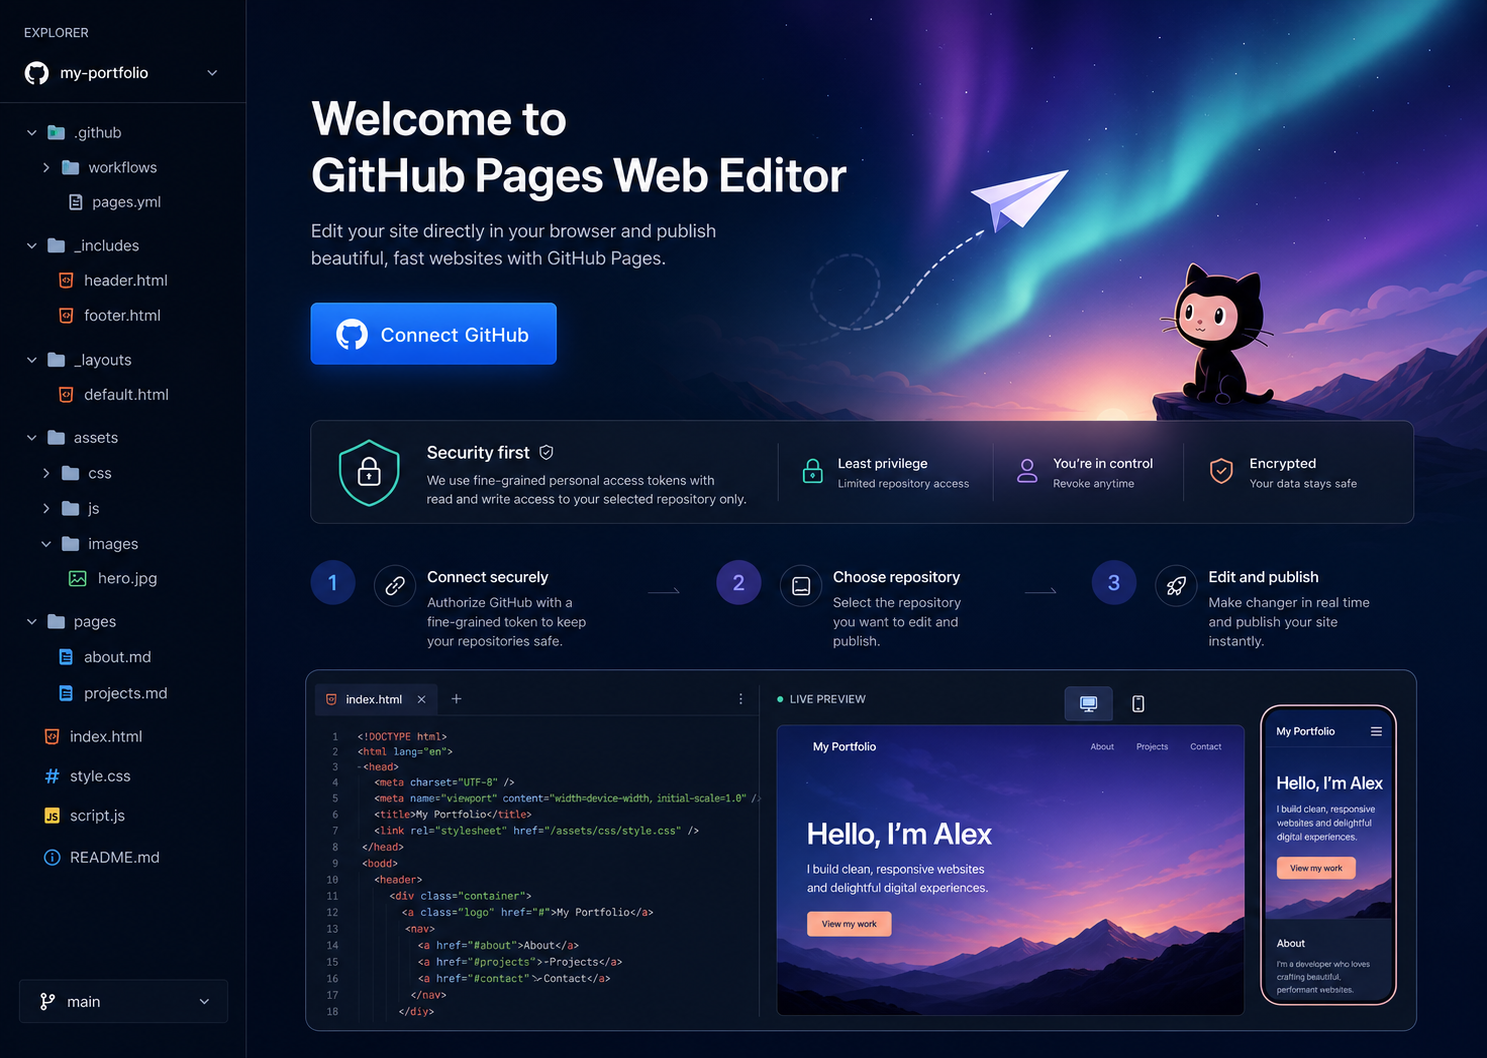
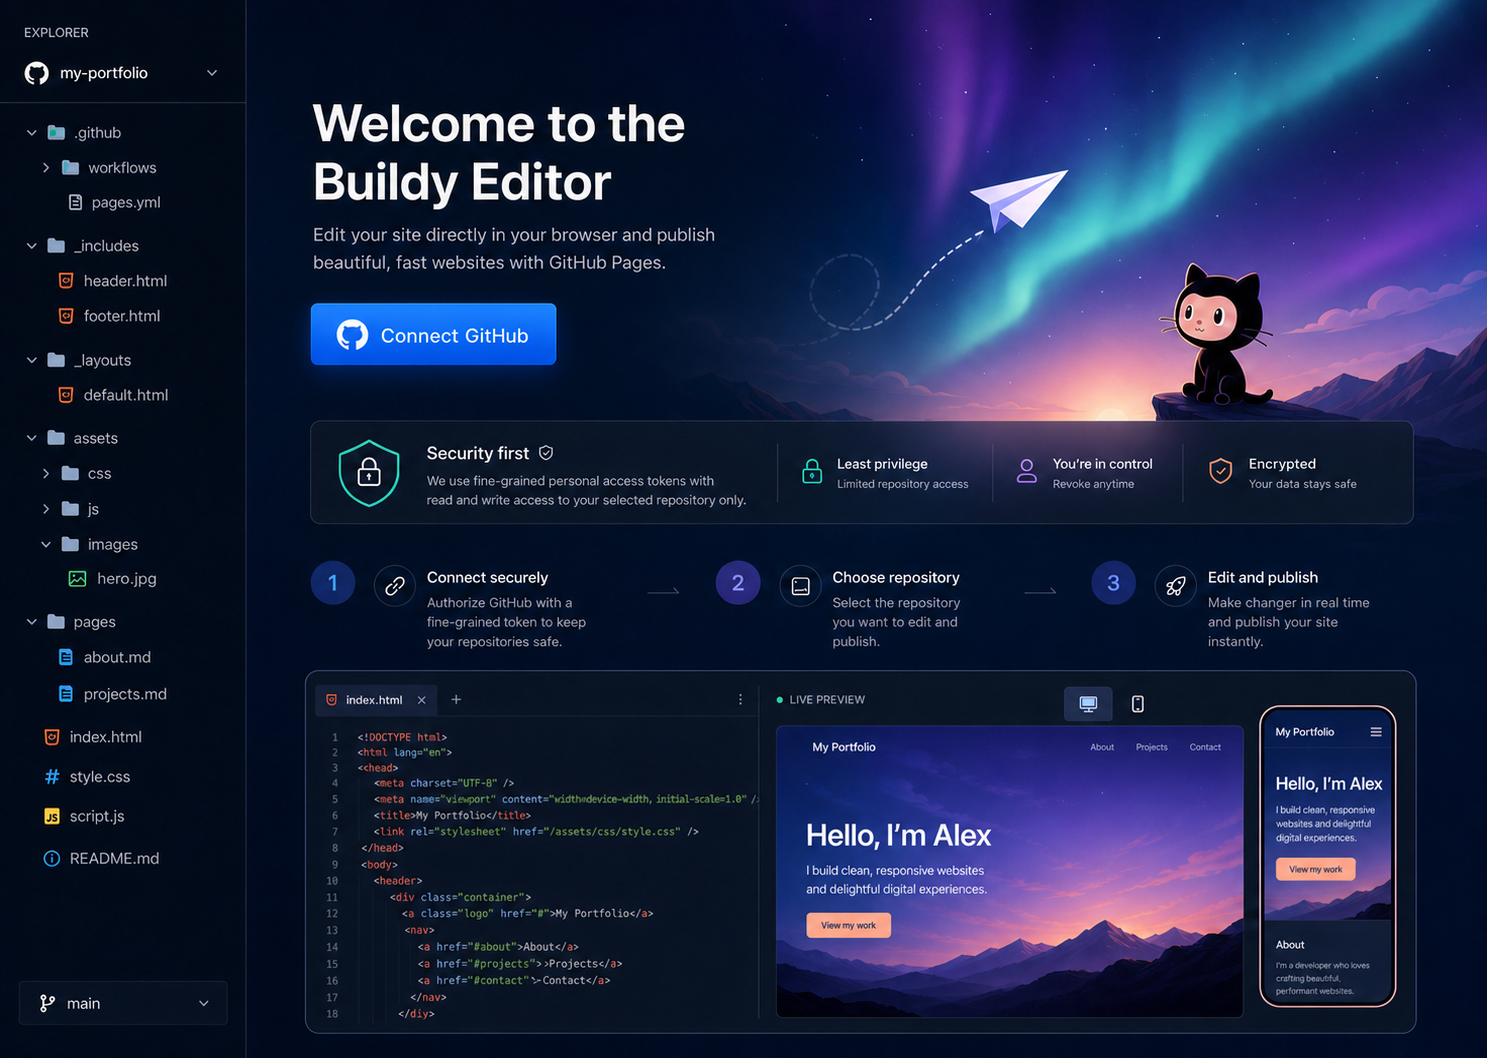
Gate Buildy downloads behind private access

diff --git a/public/buildy-landing.html b/public/buildy-landing.html
@@ -12,8 +12,8 @@
 <body>
   <header class="site-header">
     <a class="brand" href="#top"><i class="fab fa-github"></i> Buildy <small>by BStudioB</small></a>
-    <nav aria-label="Main navigation"><a href="#how-it-works">How it works</a><a href="#download">Download</a><a href="#feedback">Feedback</a><a href="https://bstudiob.co.uk/privacy.html">Privacy</a></nav>
-    <a class="button button-quiet" href="https://github.com/JakkuAzzo/GhP-WebEditor" target="_blank" rel="noreferrer">View source</a>
+    <nav aria-label="Main navigation"><a href="#how-it-works">How it works</a><a href="#access">Access</a><a href="#feedback">Feedback</a><a href="https://bstudiob.co.uk/privacy.html">Privacy</a></nav>
+    <a class="button button-quiet" href="#access">Join early access</a>
   </header>
   <main id="top">
     <section class="hero">
@@ -21,8 +21,8 @@
         <p class="eyebrow">GitHub Pages, without the Git busywork</p>
         <h1>Edit your site. Preview it. Export it.</h1>
         <p class="lede">Buildy is a downloadable desktop workspace for making real website changes in code or visually, then exporting a finished site whenever you are ready.</p>
-        <div class="hero-actions" id="download"><a class="button button-primary" href="https://github.com/JakkuAzzo/GhP-WebEditor/releases/latest" target="_blank" rel="noreferrer"><i class="fas fa-download"></i> Download latest release</a><a class="button button-secondary" href="https://github.com/JakkuAzzo/GhP-WebEditor/releases" target="_blank" rel="noreferrer">Browse releases</a></div>
-        <p class="fine-print"><i class="fas fa-laptop"></i> Your website files stay on your computer. No account, token, or server setup is needed.</p>
+        <div class="hero-actions"><a class="button button-primary" href="#access"><i class="fas fa-arrow-right"></i> Request access</a><a class="button button-secondary" href="#how-it-works">See how it works</a></div>
+        <p class="fine-print"><i class="fas fa-lock"></i> Buildy is distributed privately after purchase or invitation. Your website files stay on your computer.</p>
       </div>
       <div class="hero-art"><img src="assets/onboarding-aurora-workbench.png" alt="Buildy showing a code workspace, live website preview, and mobile preview"></div>
     </section>
@@ -36,9 +36,9 @@
       <ol class="steps"><li><span>1</span><h3>Open your site</h3><p>Import an existing site ZIP or start from a blank website template.</p></li><li><span>2</span><h3>Edit with confidence</h3><p>Use code or visual editing and preview the result with your local assets.</p></li><li><span>3</span><h3>Export and publish</h3><p>Download a complete ZIP, then upload its files to the GitHub repository that publishes your site.</p></li></ol>
     </section>
     <section class="section split-section"><div><p class="eyebrow">Built for real sites</p><h2>Keep control of every file.</h2><p>Make the change locally, inspect it in the preview, and upload the exported files through GitHub whenever you choose. Your existing Pages workflow remains the source of truth.</p></div><div class="feature-list"><p><i class="fas fa-code"></i> Multi-file code editing and visual element selection</p><p><i class="fas fa-eye"></i> Sandboxed preview with local assets</p><p><i class="fas fa-file-zipper"></i> ZIP import and export for handoffs and backups</p><p><i class="fas fa-shield-halved"></i> No account, token, or server configuration required</p></div></section>
-    <section class="section download-card"><div><p class="eyebrow">Ready when you are</p><h2>Get Buildy</h2><p>Download the current release, or follow development on GitHub.</p></div><div class="hero-actions"><a class="button button-primary" href="https://github.com/JakkuAzzo/GhP-WebEditor/releases/latest" target="_blank" rel="noreferrer">Latest release <i class="fas fa-arrow-up-right-from-square"></i></a><a class="button button-secondary" href="https://github.com/JakkuAzzo/GhP-WebEditor" target="_blank" rel="noreferrer">Repository</a></div></section>
-    <section class="section feedback" id="feedback"><div><p class="eyebrow">Shape the app</p><h2>Comments, ideas, and bugs</h2><p>Tell us what would make editing your GitHub Pages site easier. Feedback goes directly to the project inbox.</p></div><form action="https://formsubmit.co/e0a3287540eff1fab6eab624eb29c561" method="POST"><input type="hidden" name="_subject" value="Buildy feedback"><input type="hidden" name="_template" value="table"><label>Name <input name="name" autocomplete="name" required></label><label>Email <input type="email" name="email" autocomplete="email" required></label><label>Message <textarea name="message" rows="5" required placeholder="What would you like to see improved?"></textarea></label><button class="button button-primary" type="submit">Send feedback <i class="fas fa-paper-plane"></i></button></form></section>
+    <section class="section download-card" id="access"><div><p class="eyebrow">Private early access</p><h2>Pay once, then get your copy.</h2><p>Buildy is not distributed through a public repository or open release list. Join the waitlist and we will send pricing, availability and a secure download after payment or invitation.</p></div><a class="button button-primary" href="#feedback">Join the waitlist <i class="fas fa-arrow-down"></i></a></section>
+    <section class="section feedback" id="feedback"><div><p class="eyebrow">Private early access</p><h2>Join the Buildy waitlist.</h2><p>Tell us where you would use Buildy. We will contact you with the current one-time project price, availability and a secure download route.</p></div><form action="https://formsubmit.co/e0a3287540eff1fab6eab624eb29c561" method="POST"><input type="hidden" name="_subject" value="Buildy early-access waitlist"><input type="hidden" name="_template" value="table"><label>Name <input name="name" autocomplete="name" required></label><label>Email <input type="email" name="email" autocomplete="email" required></label><label>What are you building? <textarea name="message" rows="5" required placeholder="A personal site, a client project, or something else?"></textarea></label><button class="button button-primary" type="submit">Join waitlist <i class="fas fa-paper-plane"></i></button></form></section>
   </main>
-  <footer><span>Buildy by BStudioB</span><span>Local GitHub Pages editing, preview, and export.</span><a href="https://bstudiob.co.uk/">BStudioB</a><a href="https://bstudiob.co.uk/privacy.html">Privacy</a><a href="mailto:support@bstudiob.co.uk">Support</a><a href="https://github.com/JakkuAzzo/GhP-WebEditor" target="_blank" rel="noreferrer">GitHub</a></footer>
+  <footer><span>Buildy by BStudioB</span><span>Local GitHub Pages editing, preview, and export.</span><a href="https://bstudiob.co.uk/">BStudioB</a><a href="https://bstudiob.co.uk/privacy.html">Privacy</a><a href="mailto:support@bstudiob.co.uk">Support</a></footer>
 </body>
 </html>
